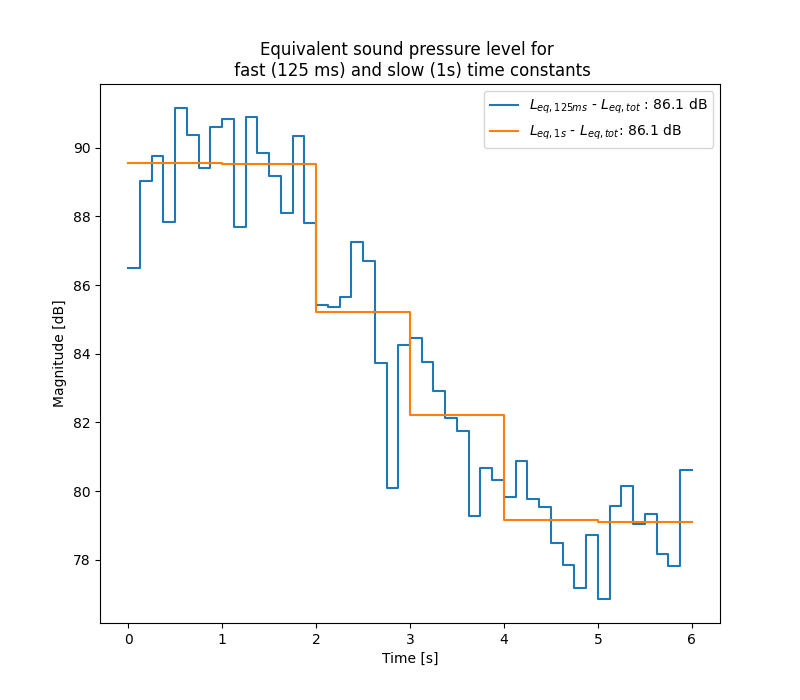
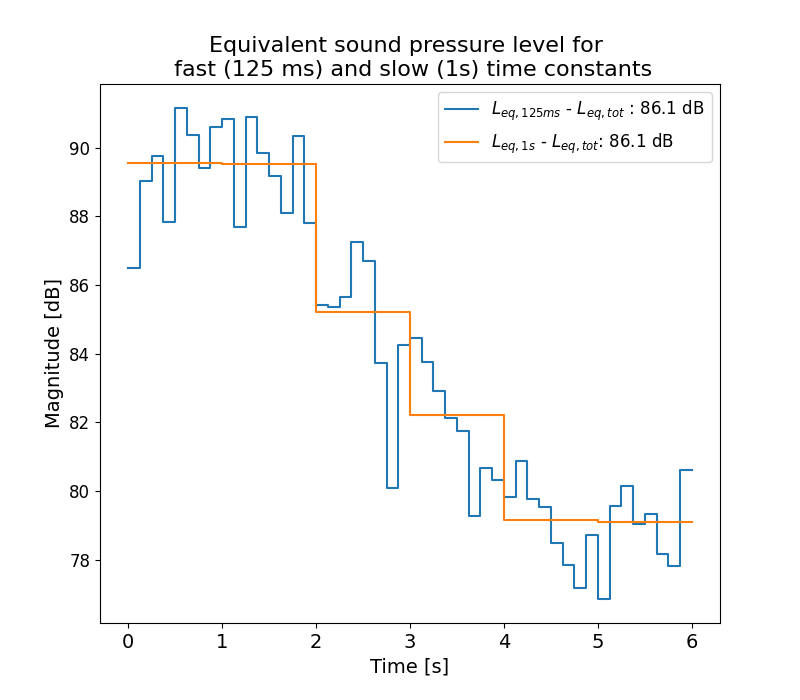
blablabla

diff --git a/A0.py b/A0.py
@@ -5,6 +5,22 @@ import matplotlib.pyplot as plt
 import scipy.signal as signal
 import values
 
+####### Font values #######
+SMALL_SIZE = 12
+MEDIUM_SIZE = 14
+BIGGER_SIZE = 16
+
+plt.rc('font', size=MEDIUM_SIZE)
+plt.rc('axes', titlesize=BIGGER_SIZE)
+plt.rc('axes', labelsize=MEDIUM_SIZE)
+plt.rc('xtick', labelsize=MEDIUM_SIZE)
+plt.rc('ytick', labelsize=SMALL_SIZE)
+plt.rc('legend', fontsize=SMALL_SIZE)
+plt.rc('figure', titlesize=BIGGER_SIZE)
+###########################
+
+
+
 def _time_to_discrete(timeval,fs):
     """Returns discrete timevalue
     Args:
@@ -98,6 +114,14 @@ def _Lp_from_freq(fft, freq):
         Lp += 10**(fft[i]/10)
     return 10*np.log10(Lp)
 
+def _runningMeanFast(x, N):
+    """
+    :param x: Signal array
+    :param N: Window_length
+    :return: array with running mean values
+    """
+    return np.convolve(x, np.ones((N,))/N)[(N-1):]
+
 def _fft_signal(array, fs):
     """Generate the FFT and frequency axis values of the time signal
 
@@ -111,7 +135,9 @@ def _fft_signal(array, fs):
     N = len(array)
     y = np.fft.fft(array)[0:int(N/2)]/N
     y = 1.41*y
-    p_y = 20*np.log10(np.abs(y) / values.p0)
+    #y = _runningMeanFast(y,5)
+    p_y = 20*np.log10(_runningMeanFast(np.abs(y),3) / values.p0)
+    #p_y = _runningMeanFast(p_y, 5)            # Mulig sløyfe denne. Mister energi i spektrumet siden den middler uten å gå over til Pa først.
     f = fs*np.arange((N/2))/N
     return f, p_y
 
@@ -165,7 +191,6 @@ def _calc_p_peak(cal_value):
     """
     p_rms = values.p0 * 10**(cal_value/20)
     p_peak = p_rms / 0.707
-    #print("Pressure peak: {}".format(p_peak))
     return round(p_peak,9)
 
 def _scaling_factor(cal_array):
@@ -314,7 +339,7 @@ def _plot_fft_and_third_oct(freq, fft, third_oct_val, third_oct_step, fft_A, fre
     ax.set_xscale("log")
     ax.set_xticks(values.x_ticks_third_octave)
     ax.set_xticklabels(values.x_ticks_third_octave_labels)
-    ax.set_xlim(30,5000)
+    ax.set_xlim(values.freq_min, values.freq_max)
     ax.legend()
     fig.savefig("FFT&Third_oct_{0} s_to_{1} s.png".format(values.start,values.stop))
 
@@ -342,14 +367,10 @@ def _print_stuff(fs_sound_file=0, sound_file=0, cal_before=0, cal_after=0, A=0, 
     
     print("- Sampling frequency: {0} Hz -- length of file {1} Seconds \n- Start point: {2} s -- End point: {3} s"
           .format(fs_cal, len(array)/fs_cal, values.start, values.stop))
-    
     print("- Scaling factor A={}".format(round(A,1)))
-    
     print("- Calibration before measurements: {0:.1f} dB\n- Calibration after measurements: {1:.1f} dB "
           .format(cal_before_Lp, cal_after_Lp))
-    
     print("- Total Lp from entire sound signal Z-weighted: {0:.1f} dB \n- Total Lp from Third octave bands Z-weighted: {1:.1f}".format(_calculate_Lp(array), Lp_fft))
-    
     print("\t\t Z-weighted \t A-weighted\n Lp,fft\t\t{0:.1f} dB\t\t{1:.1f} dB\n Lp,1/3 \t{2:.1f} dB \t{3:.1f} dB".format(Lp_fft, Lp_fft_A, third_oct, third_oct_A))
     
     print("\n******************************************")
@@ -385,7 +406,7 @@ if __name__ == '__main__':
                                                     values.third_octave_lower[values.third_octave_start:])
     filtered_signal_A = _sort_into_third_octave_bands(freq_A, fft_A, 
                                                       values.third_octave_lower[values.third_octave_start:])
-
+    
     #*********   Plot the FFT and 1/3 octave band values and return the Lp values for these *****
     Lp_fft, Lp_fft_A, third_oct, third_oct_A  = _plot_fft_and_third_oct(freq, fft, filtered_signal, 
                             values.third_octave_center_frequencies[values.third_octave_start:], 

diff --git a/values.py b/values.py
@@ -3,9 +3,11 @@ cal_value = 94
 start = 40
 stop = 46
 third_octave_start = 4
+freq_min = 30
+freq_max = 10000
 
-x_ticks_third_octave = [50, 100, 200, 500, 1000, 2000, 5000]
-x_ticks_third_octave_labels = ["50","100", "200", "500", "1000", "2000", "5000"]
+x_ticks_third_octave = [50, 100, 200, 500, 1000, 2000, 5000, 10000]
+x_ticks_third_octave_labels = ["50","100", "200", "500", "1k", "2k", "5k", "10k"]
 
 THIRD_OCTAVE_A_WEIGHTING = [
     -63.4, -56.7, -50.5, -44.7, -39.4, -34.6, -30.2, -26.2, -22.5, -19.1, -16.1, -13.4, -10.9, -8.6, -6.6, -4.8, -3.2,
